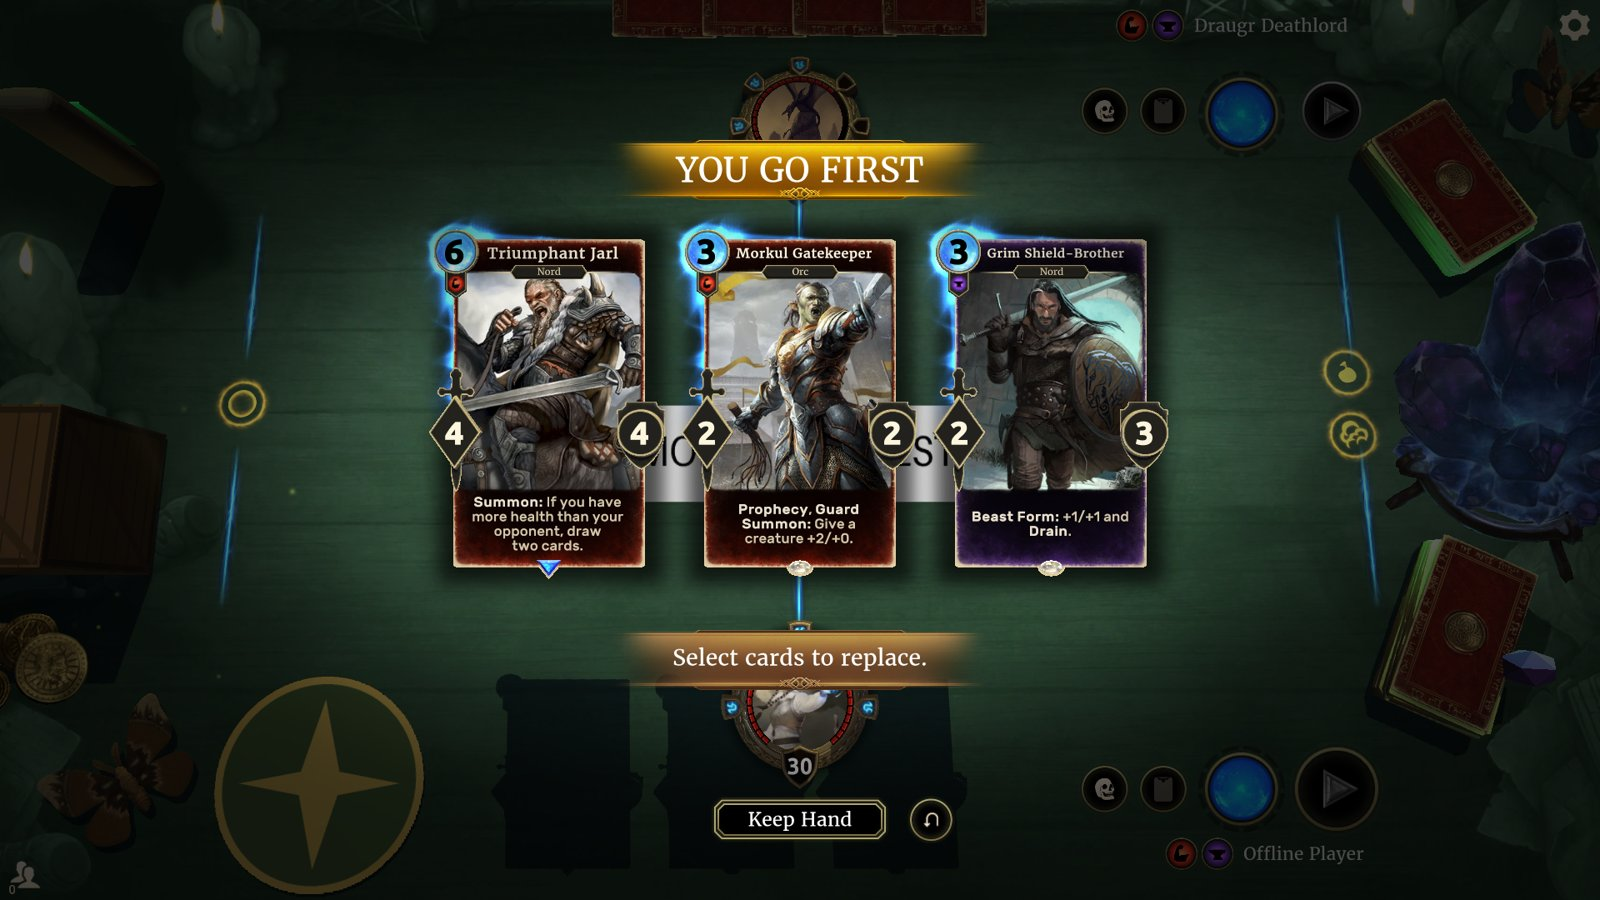
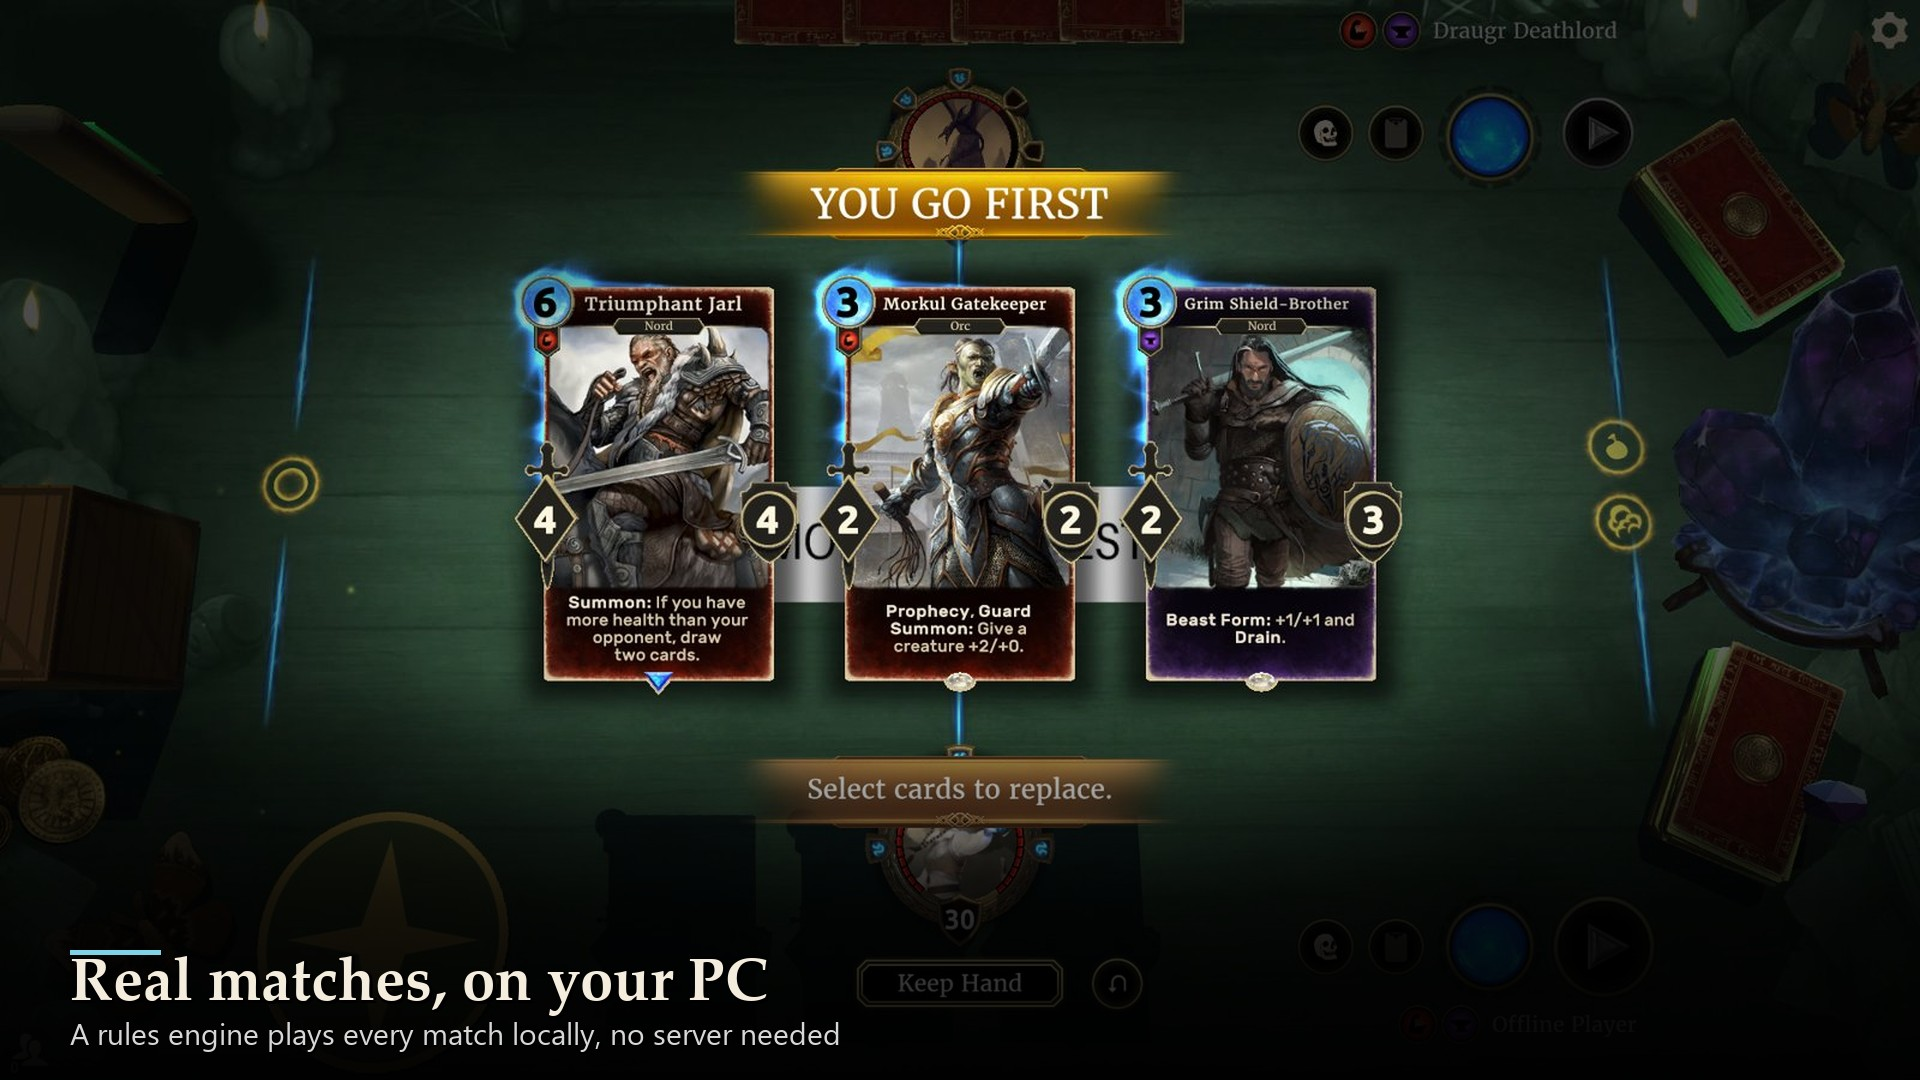
Screenshots in the README; screenshots folder updated to the 1.0.0 release images

diff --git a/README.md b/README.md
@@ -1,5 +1,7 @@
 # TESL: Everlasting
 
+![TESL: Everlasting](https://raw.githubusercontent.com/ArchAngelAries/tesl-everlasting/main/docs/screenshots/banner-1300x372.png)
+
 **The Elder Scrolls: Legends, playable again.** TESL: Everlasting brings back the whole game in a complete, end-to-end
 offline mode on your own PC: the stories, puzzles, arenas, casual and ranked play against the AI, quests, rewards,
 levels, titles, the store and pack opening. Every one of the game's 1,718 cards plays with its full rules. No server, no
@@ -61,6 +63,19 @@ TESL Reborn is a separate community project that brings back online play. Our to
 folder: with it installed, the F10 menu switches between offline play and online play, and online launches use only
 local visual and audio mods. We are not part of TESL Reborn and it has its own team, support and rules. **Please don't
 contact the TESL Reborn team about our mods or tools**; report problems on our pages instead.
+
+<!-- screenshots:start -->
+## Screenshots
+
+| | |
+|---|---|
+| ![Main menu](https://raw.githubusercontent.com/ArchAngelAries/tesl-everlasting/main/docs/screenshots/00-everlasting.jpg)<br>Main menu | ![A match against the AI](https://raw.githubusercontent.com/ArchAngelAries/tesl-everlasting/main/docs/screenshots/06-battle.jpg)<br>A match against the AI |
+| ![Every story campaign](https://raw.githubusercontent.com/ArchAngelAries/tesl-everlasting/main/docs/screenshots/01-stories.jpg)<br>Every story campaign | ![Prophecy, as in the original](https://raw.githubusercontent.com/ArchAngelAries/tesl-everlasting/main/docs/screenshots/07-prophecy.jpg)<br>Prophecy, as in the original |
+| ![The store and pack opening](https://raw.githubusercontent.com/ArchAngelAries/tesl-everlasting/main/docs/screenshots/12-store.jpg)<br>The store and pack opening | ![Custom game modes from mods](https://raw.githubusercontent.com/ArchAngelAries/tesl-everlasting/main/docs/screenshots/13-custom-modes.jpg)<br>Custom game modes from mods |
+| ![AI opponents that emote](https://raw.githubusercontent.com/ArchAngelAries/tesl-everlasting/main/docs/screenshots/14-emotes.jpg)<br>AI opponents that emote | ![Mod avatars in the picker](https://raw.githubusercontent.com/ArchAngelAries/tesl-everlasting/main/docs/screenshots/15-mod-avatars.jpg)<br>Mod avatars in the picker |
+
+More in [docs/screenshots](docs/screenshots).
+<!-- screenshots:end -->
 
 ## Requirements
 
